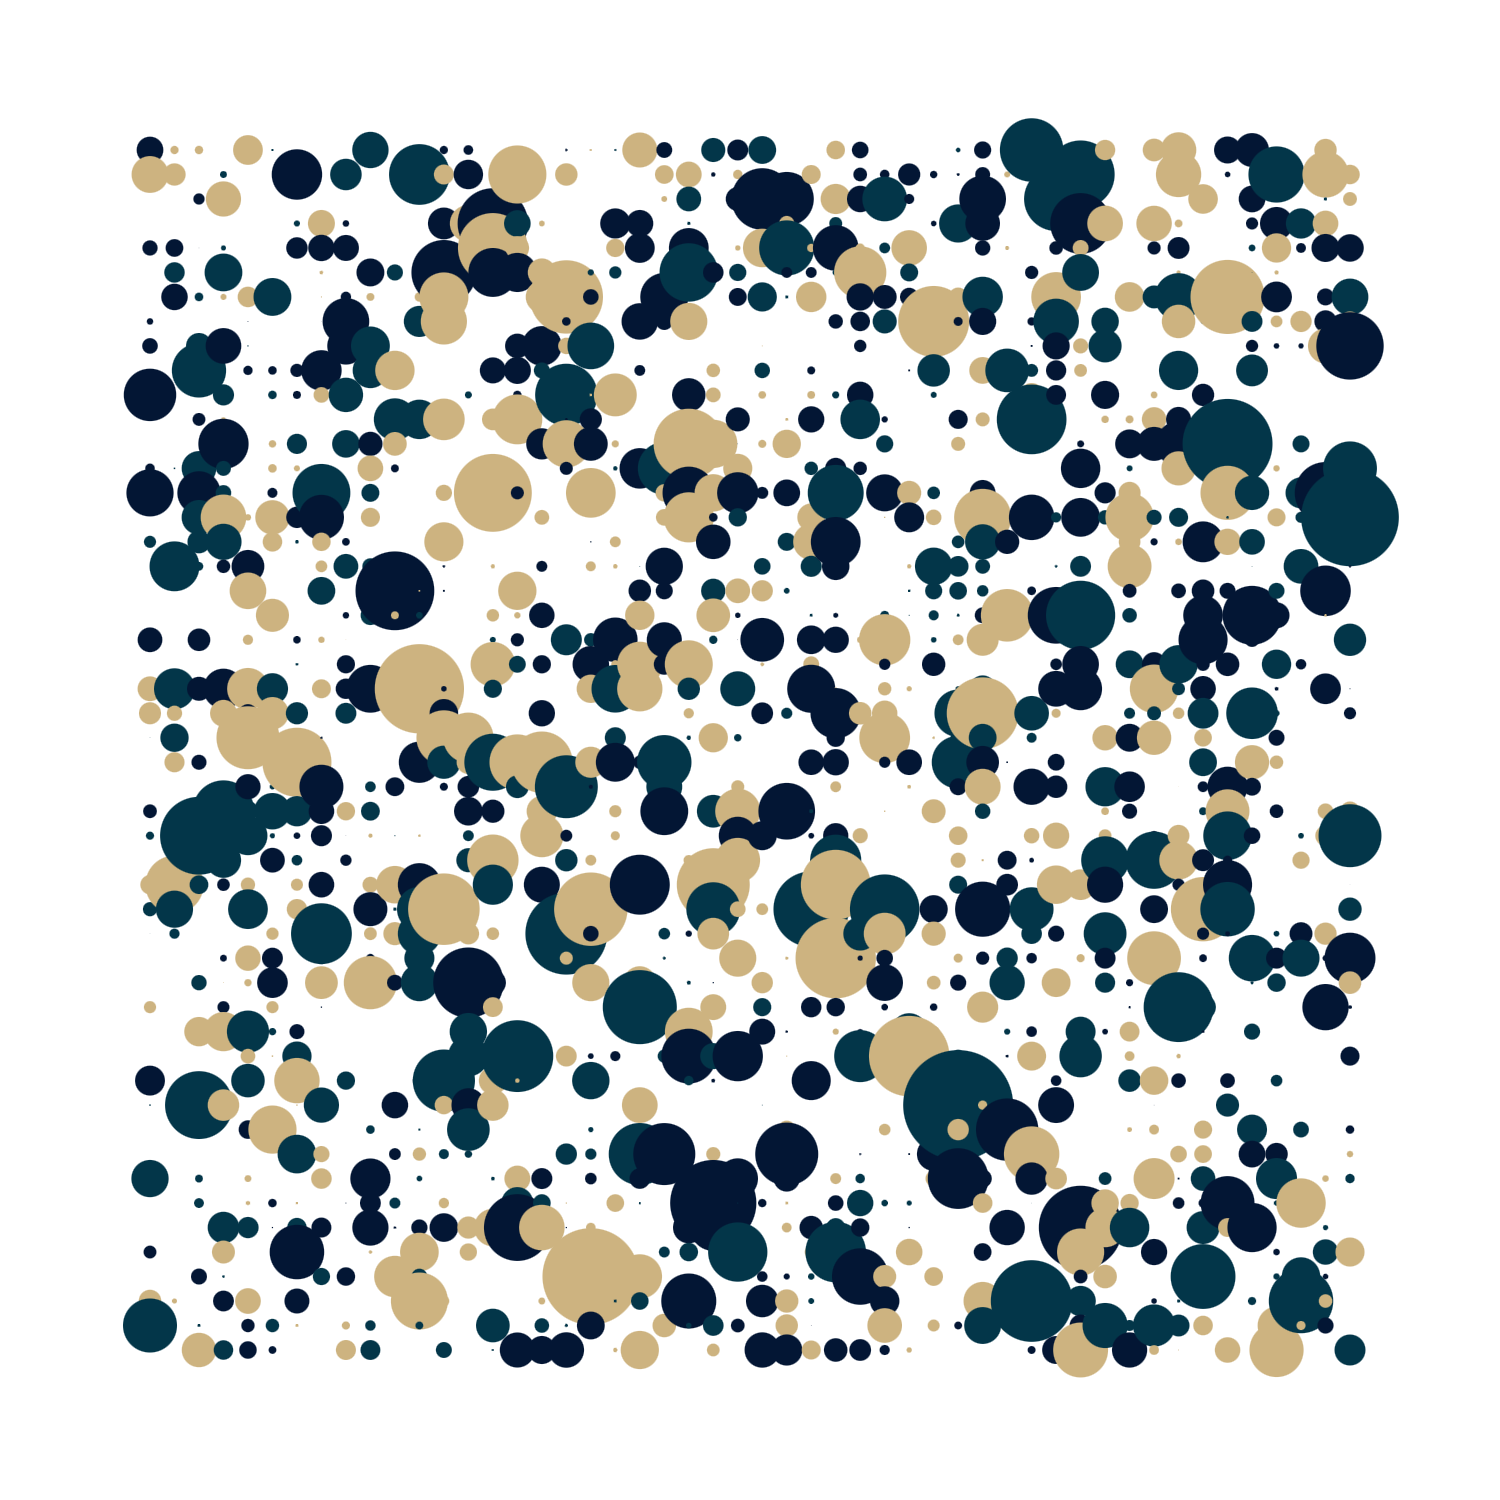
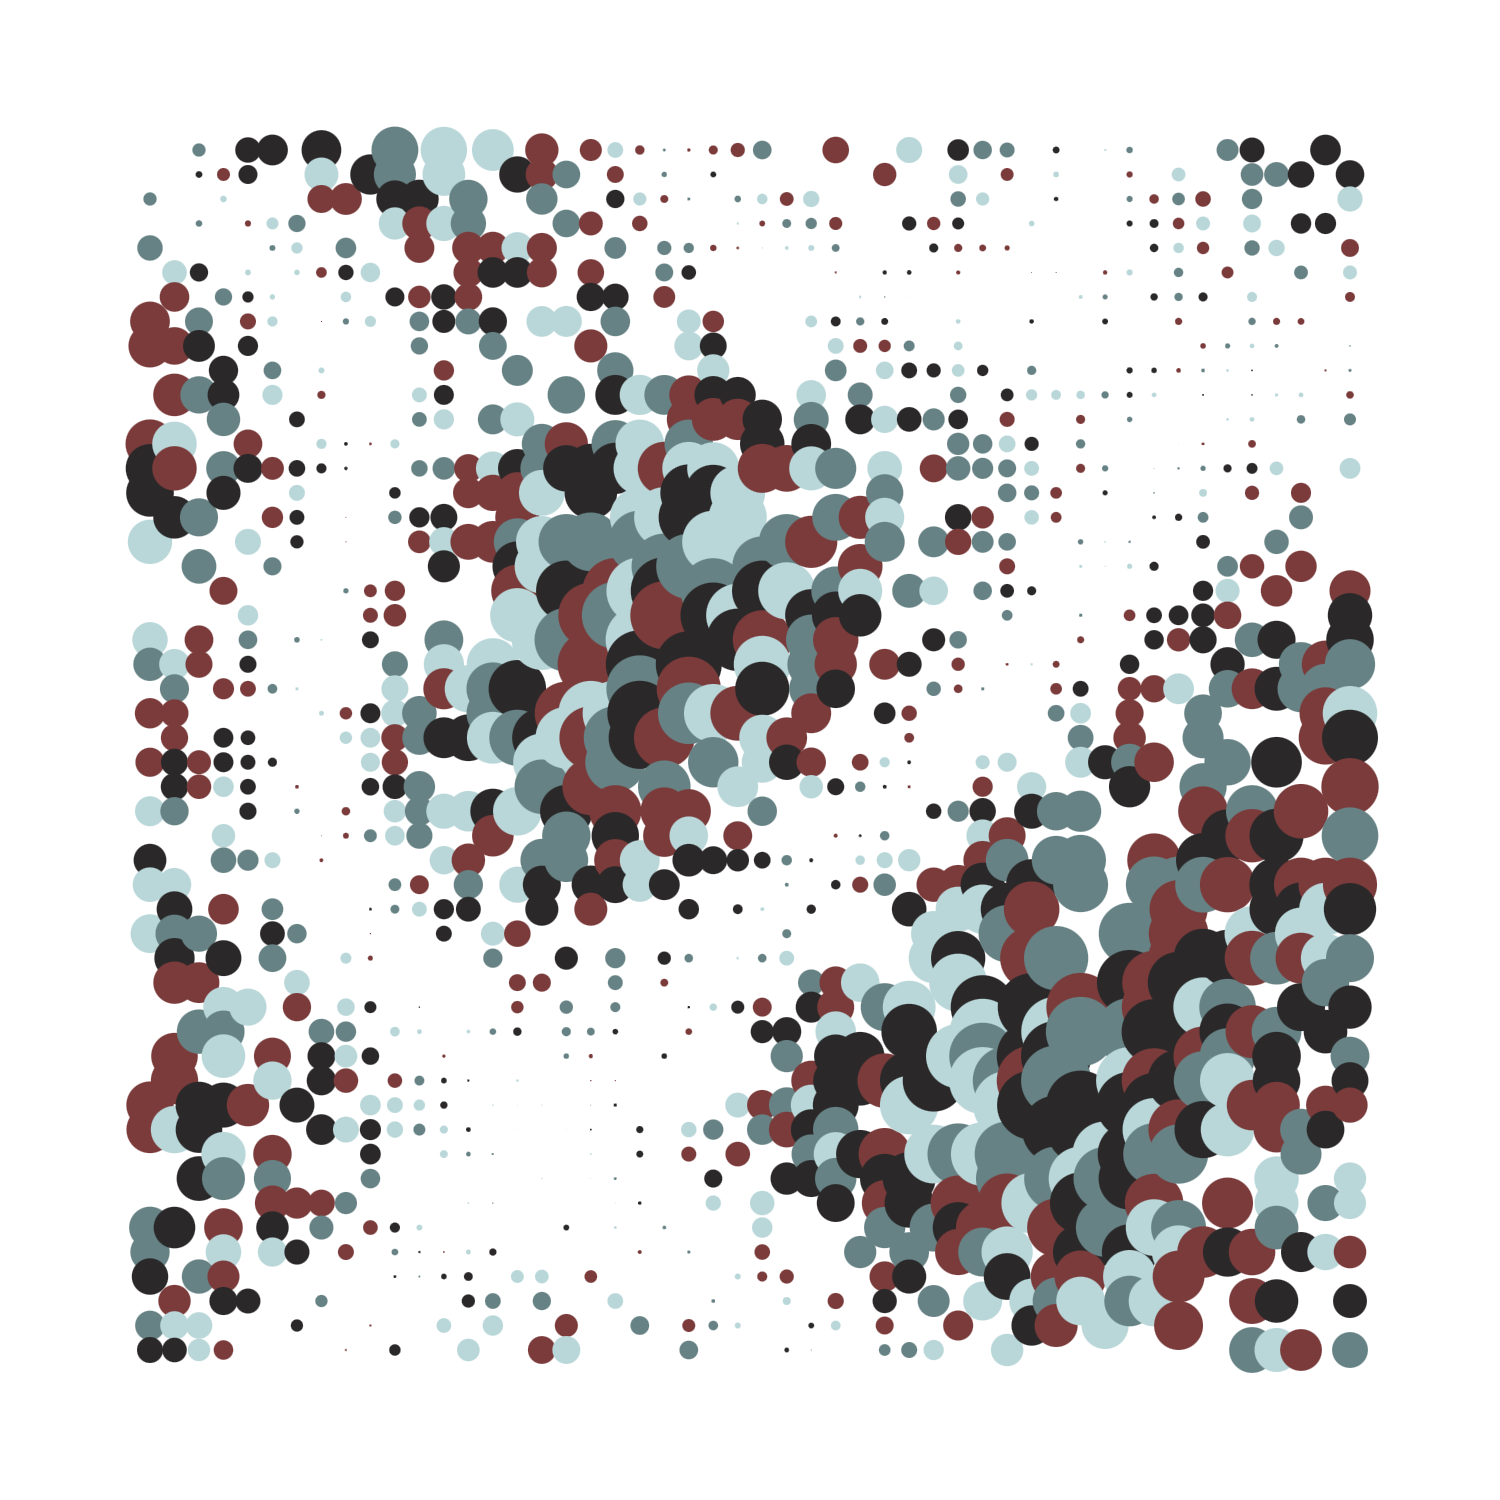
Added noise2D to the radius

diff --git a/sketch.js b/sketch.js
@@ -18,15 +18,15 @@ const sketch = () => {
       for (let y=0;y<count;++y){
         const u = count<=1?0.5: x/(count-1)
         const v = count<=1?0.5: y/(count-1)
+
         points.push({
             color: random.pick(palette),
-            radius: Math.abs(random.gaussian()*0.01),
+            radius: Math.abs(random.noise2D(u,v))*0.025,
               position: [u,v]})
       }
     }
     return points
   }
-  random.setSeed(1)
   const points = createGrid().filter(()=>random.value()>0.5)
 
   return ({ context, width, height }) => {
